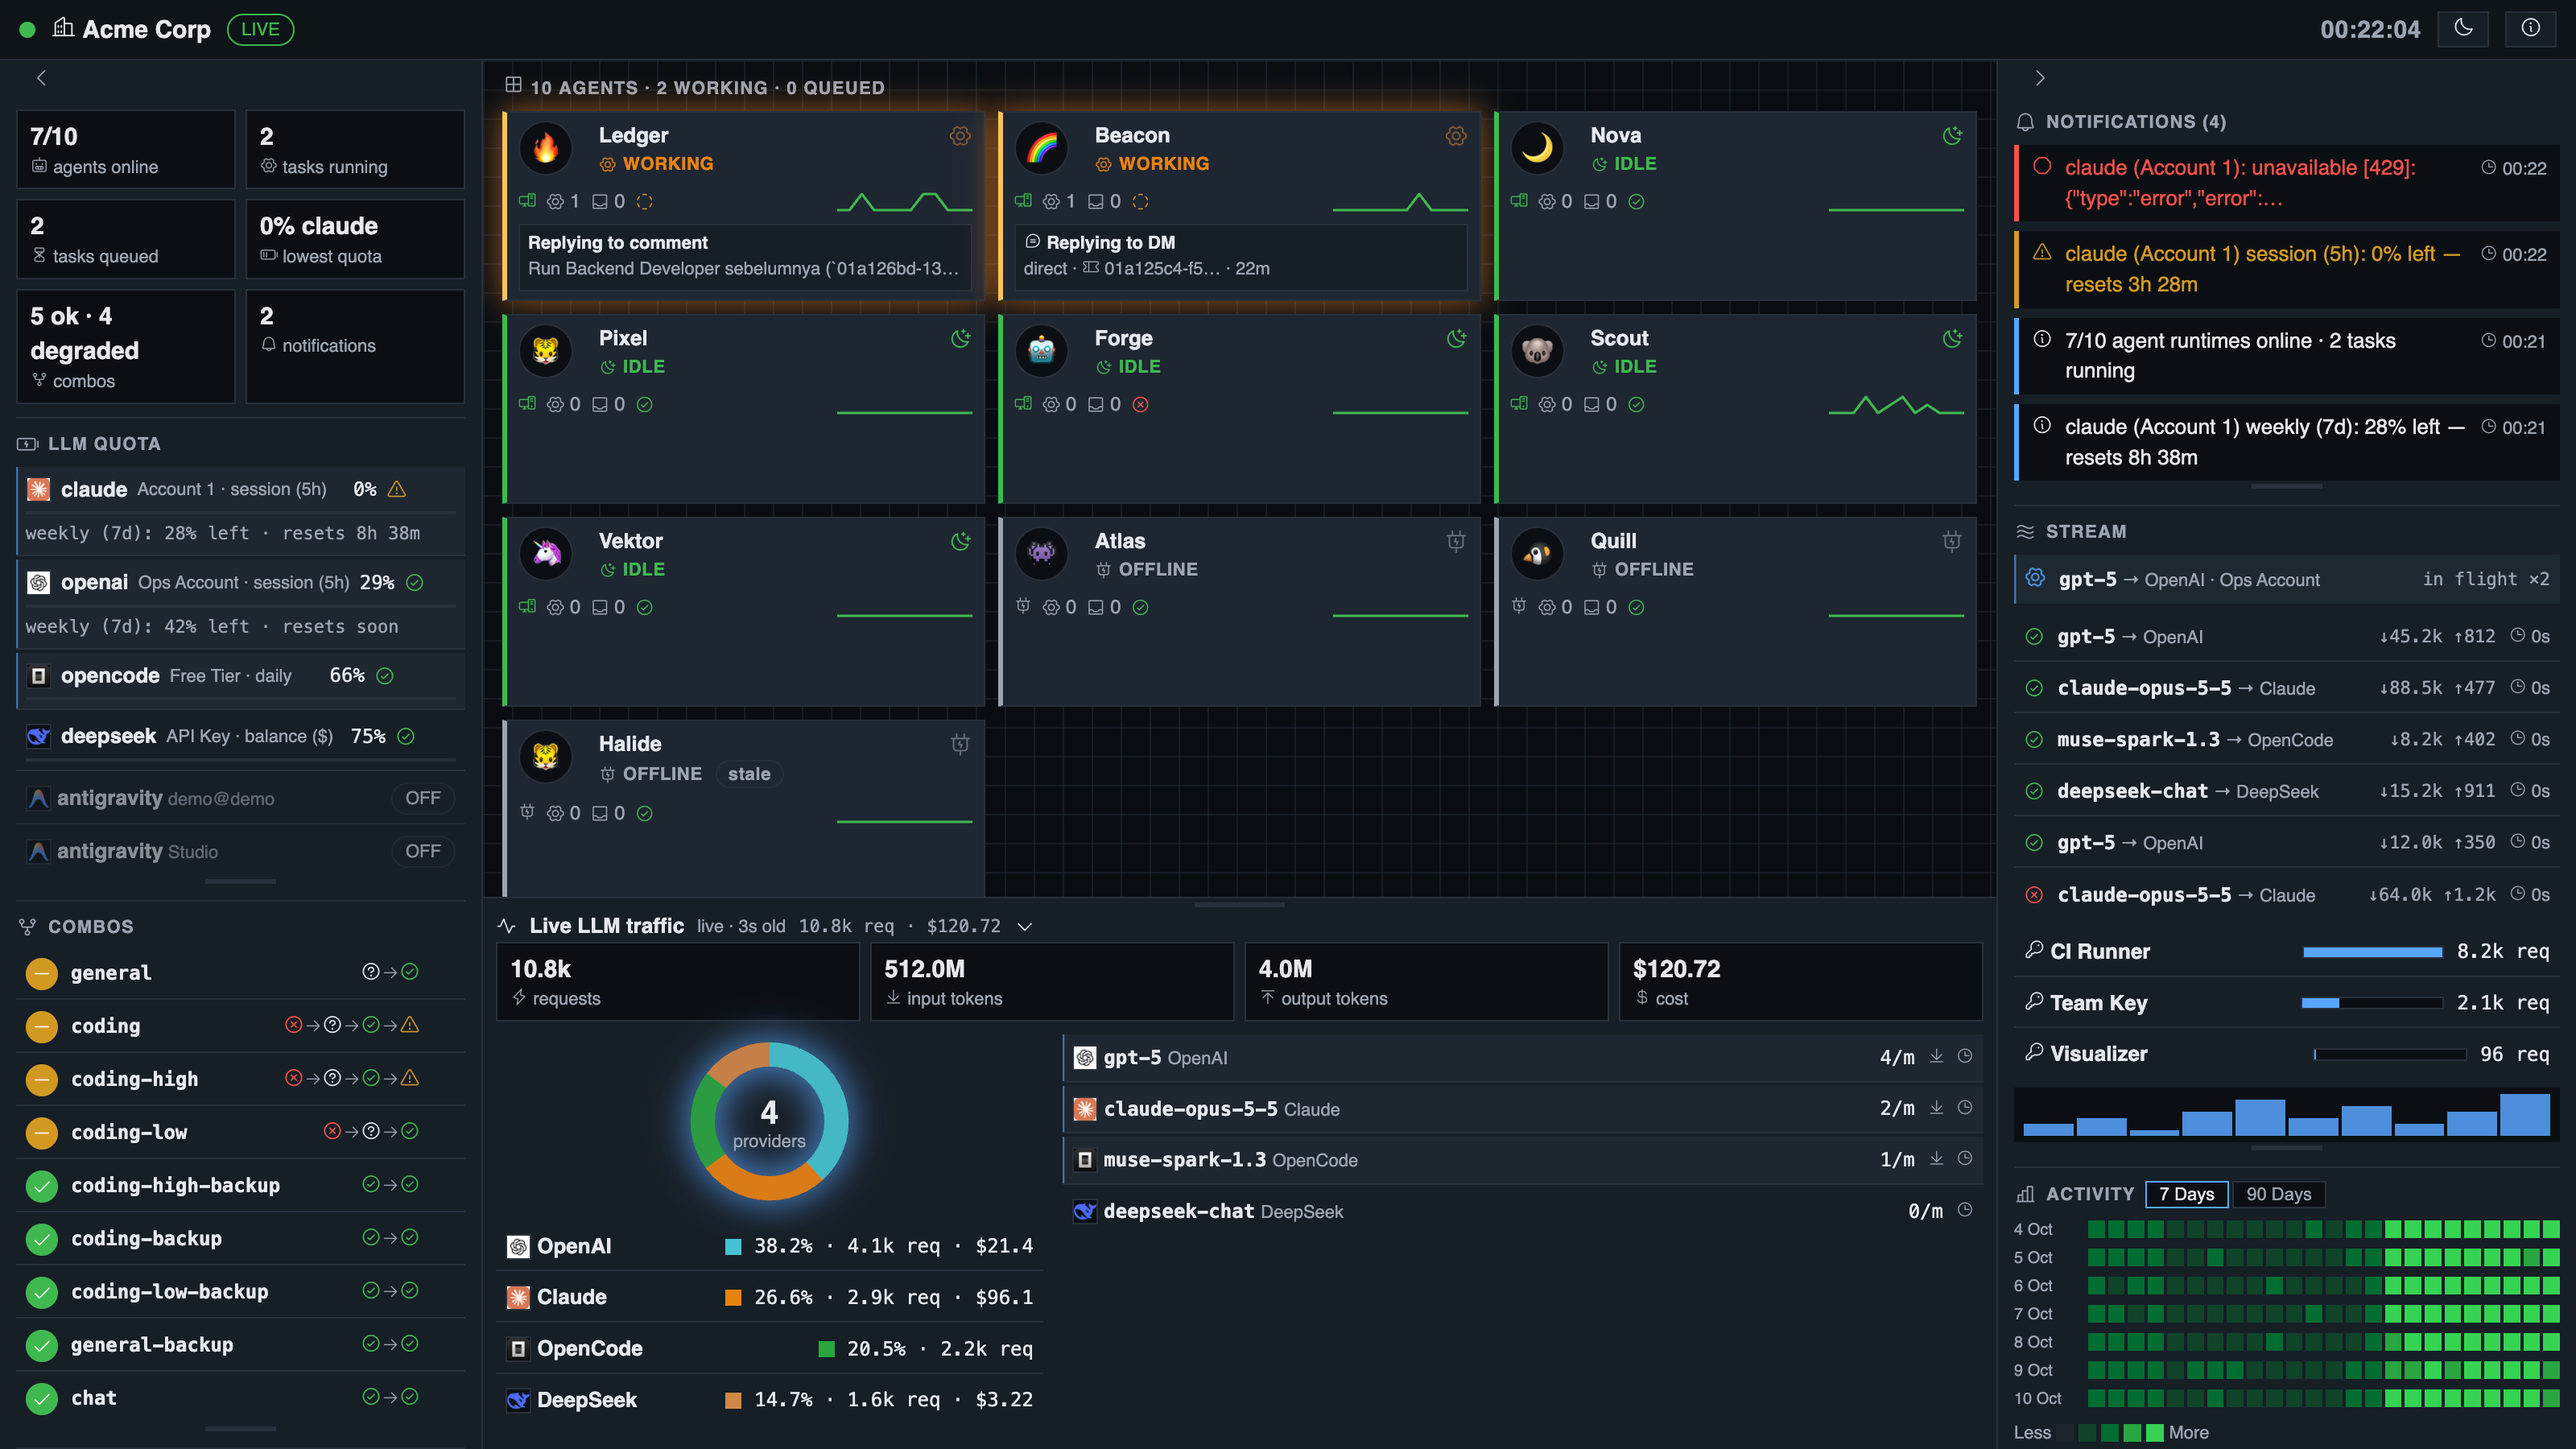
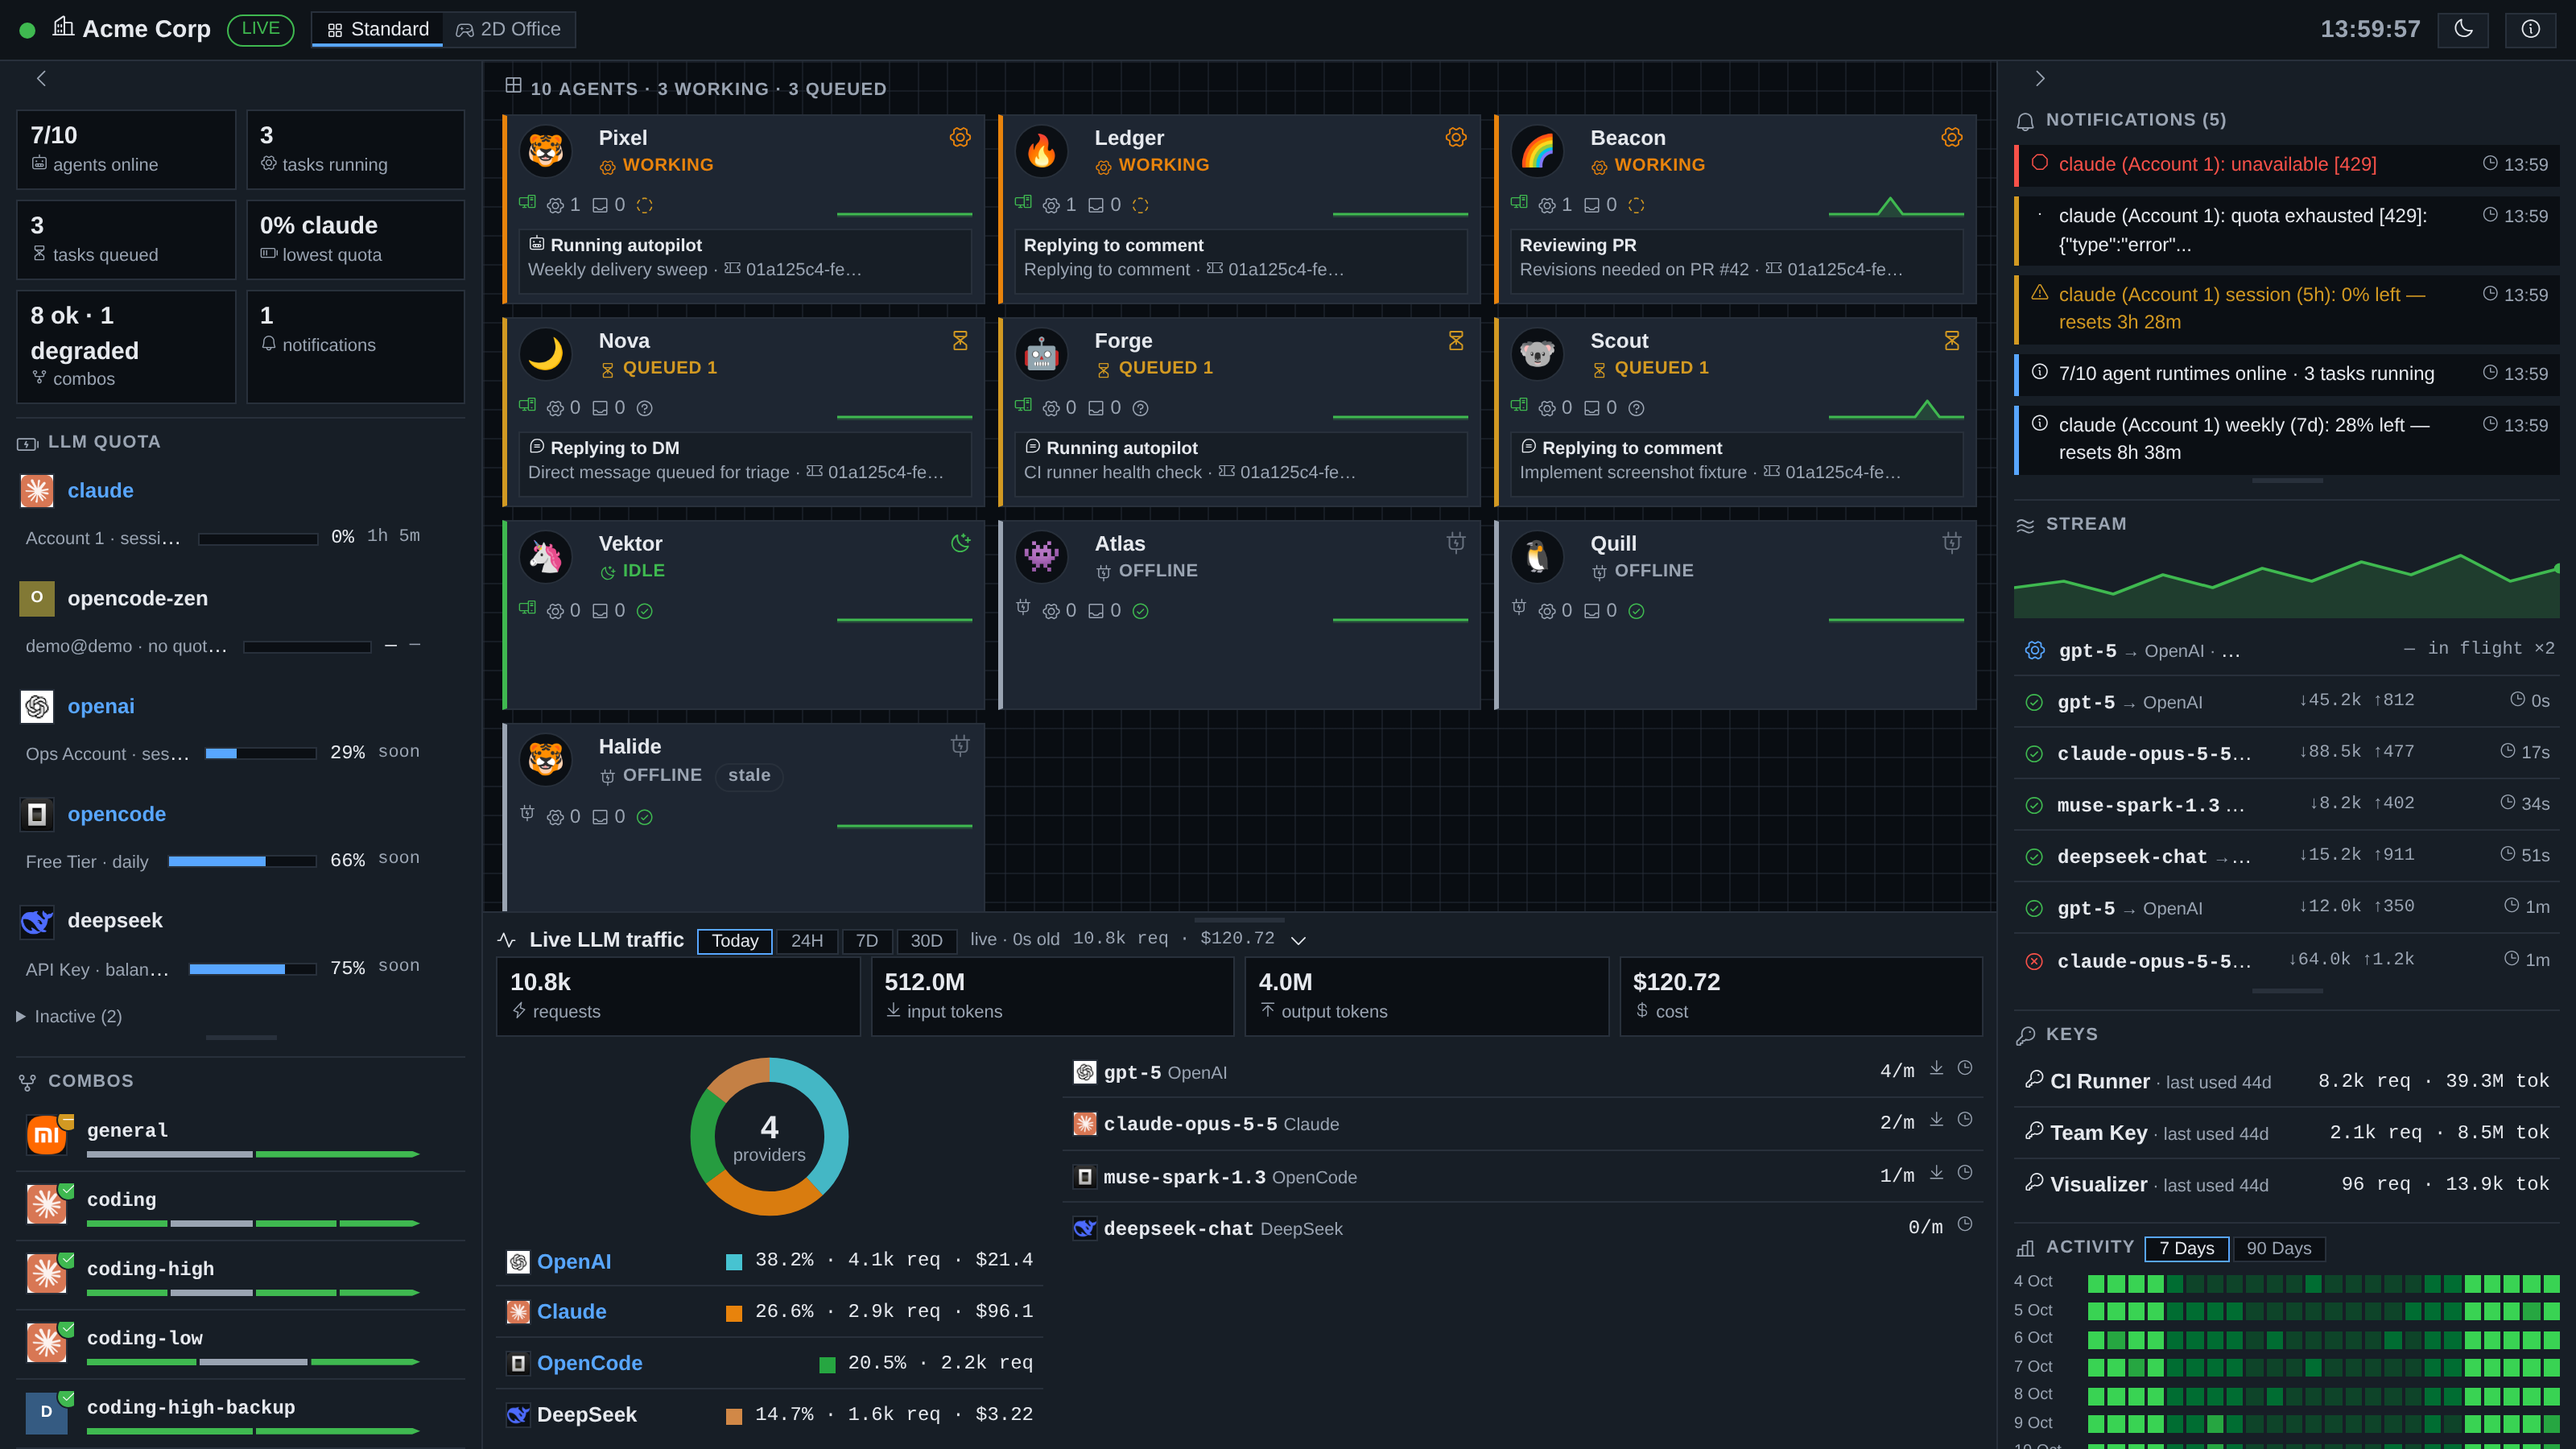
docs: refresh README screenshot with demo dashboard

diff --git a/README.md b/README.md
@@ -5,6 +5,8 @@ remaining LLM quota, 9Router combo health, and live traffic — in one screen, n
 
 ![AI Workspace Monitoring](docs/screenshot.png)
 
+Screenshot uses synthetic demo data (`MOCK_TOTAL=1`).
+
 ## What it connects to
 
 | Source | What you get | Required |
